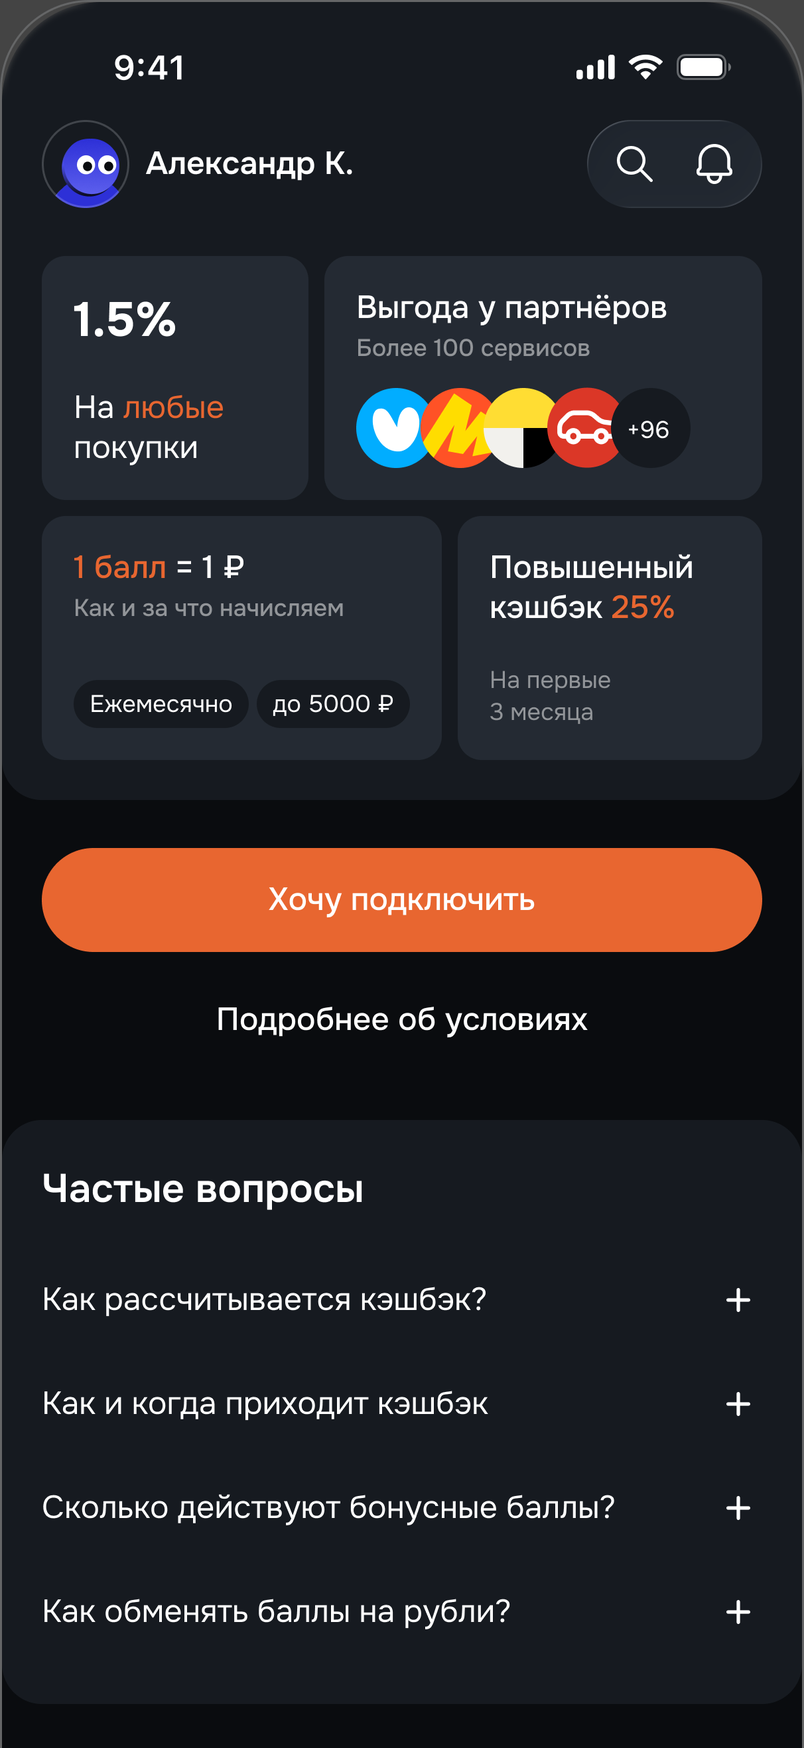
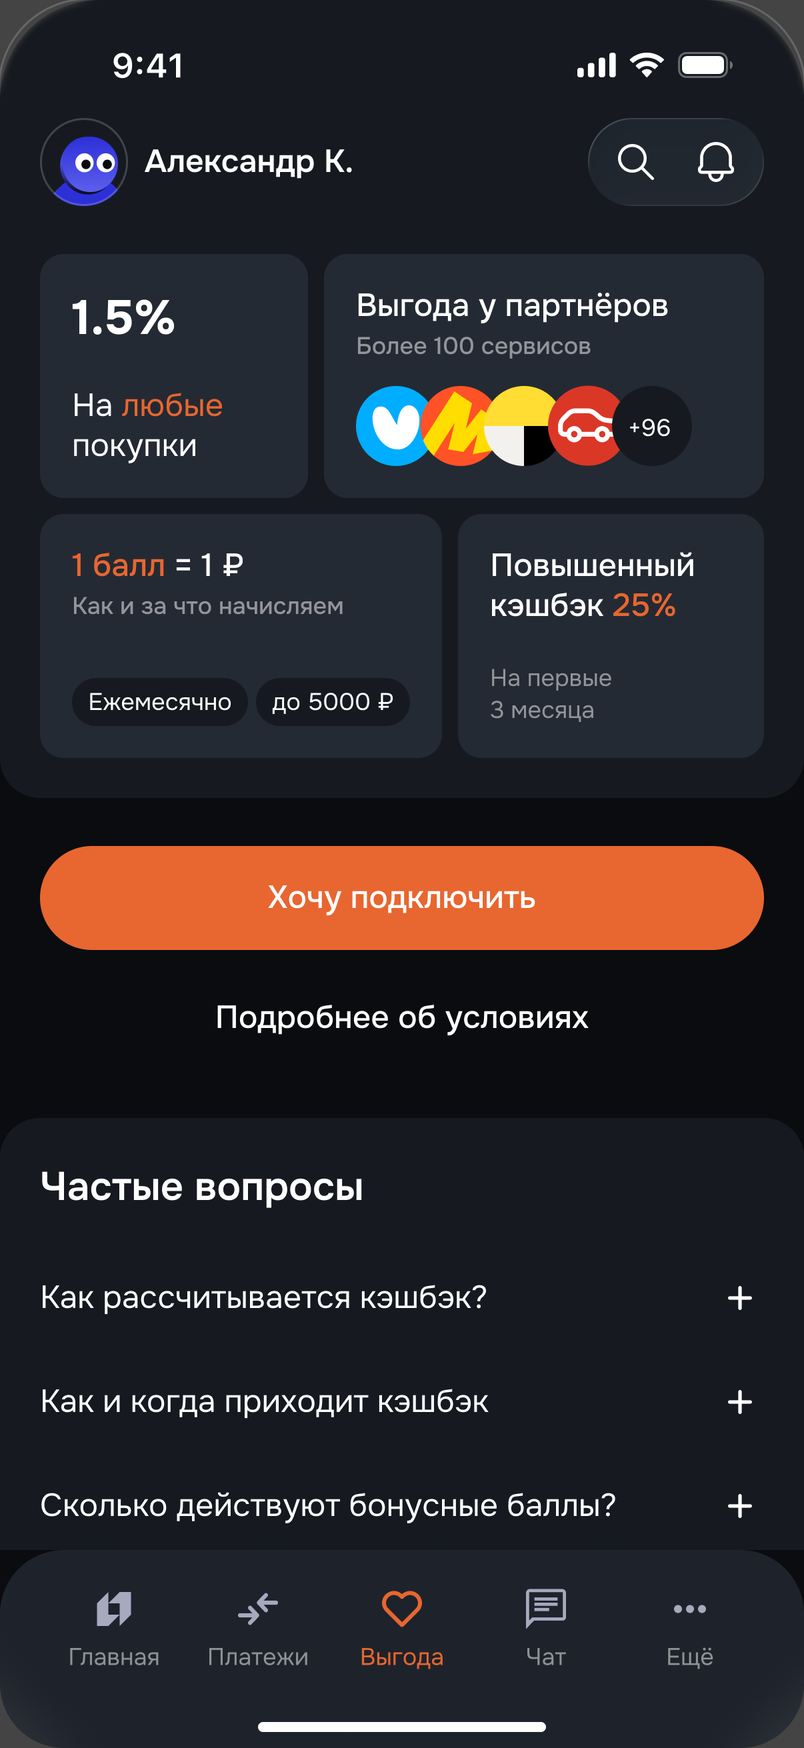
Show pinned tab bar and footer button on the PSB cover screens
The screens were cropped from the top of long Figma frames, which cut off
elements pinned to the bottom: the tab bar on the main and cashback screens
and the Connect button on the category picker. Paste that bottom strip over
the end of each crop, and trim the 1pt rim the Figma export adds.

Claude-Session: https://claude.ai/code/session_019BMb4R2areoKUEhfSjMSAo

diff --git a/tools/case-covers/psb.html b/tools/case-covers/psb.html
@@ -3,8 +3,11 @@
   Case cover for PSB-Bank Redesign concept, 1920×1080 (16:9) → public/assets/cases/psb-cover.webp.
   Render: open this file in a browser at a 1920×1080 viewport, take a screenshot and save it
   as WebP (quality ~88), e.g. Playwright page.screenshot() + any converter.
-  Screens: frames from the "mockup for claude" section of the PSB Figma file, cropped to the
-  first 874pt of each frame and exported at 2x (tools/case-covers/psb/*.png). The iPhone 17 Pro
+  Screens: frames from the "mockup for claude" section of the PSB Figma file, exported at 3x,
+  trimmed of the 1pt export rim and cropped to the first 874pt (one iPhone screen). Elements
+  pinned to the bottom in Figma (tab bar + home indicator, the footer button) sit at the very end
+  of the long frame, so that bottom strip is pasted over the end of the 874pt crop; saved at 2x
+  (tools/case-covers/psb/*.png). The iPhone 17 Pro
   body is the hidden "bezel" layer from the same file (450×920pt, screen inset 24/23pt).
   Background: a faint tile pattern of pixel coins and hearts.
   Colours mirror src/styles/tokens/colors.css. The card zooms the cover on hover,
